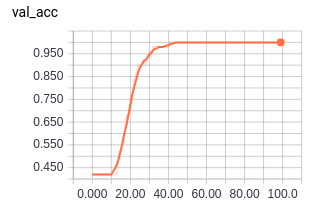
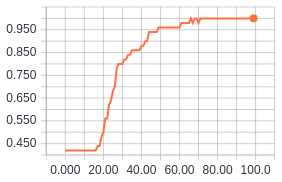
moar text

Changed region(s): [[0.0, 0.0275, 0.9929, 0.8791], [0.1702, 0.9066, 0.8227, 0.9615], [0.8511, 0.9066, 0.9645, 0.9615]]

diff --git a/index.md b/index.md
@@ -45,7 +45,7 @@ Deep learning has been used extensively to automatically process and classify me
 
 # Data
 
-As data we use the open [Montgomery County chest x-ray database](http://archive.nlm.nih.gov/repos/chestImages.php). Since this data doesn't have patient orientation information we manually labeled 173 frontal and 123 lateral images. To allow for a smaller neural network we rescaled x-rays to 128x128 px. Since we have few training samples we synthesised more the data by randomly rotating images in the range of -30 degrees to +30 degrees and flipping them along their vertical axis.
+As data we use the open [Montgomery County chest x-ray database](http://archive.nlm.nih.gov/repos/chestImages.php). Since this data doesn't have patient orientation information we manually labeled a subset of the data yielding 149 frontal and 101 lateral images. To allow for a neural network with fewer parameters we rescaled x-rays to 128x128 px. Since we have few training samples we synthesised more the data by randomly rotating images in the range of -5 degrees to +5 degrees and flipping them along their vertical axis.
 
 <center>
     <img src="assets/frontandside.jpg" alt="Sample x-rays from the Mongomery dataset" style="width: 400px;"/>
@@ -55,26 +55,27 @@ As data we use the open [Montgomery County chest x-ray database](http://archive.
 
 # How it works
 
-Convolutional neural networks (convnets) are a deep learning technique that use a hierarchy of filter banks to extract visual features as an input for a classifier. Structurally Agni is a convnet with four convolutional layers and two dense affine layers. In particular our architecture is based on the widely used VGG model where pooling (downsampling) occurs after every two convolutional layers.
+Convolutional neural networks (convnets) are a deep learning technique that use a hierarchy of filter banks to extract visual features as an input for a classifier. Structurally Agni is a convnet with four convolutional layers and two dense affine layers. In particular our architecture is based on the widely used VGG model where each model "block" has two convolutional layers with the same number of filters followed a pooling (downsampling) layer. We also use [batch normalization](https://arxiv.org/abs/1502.03167) between layers to allow us to be less careful about initialisation and improve training speed. Agni also includes dropout in the last affine layer to regularise parameters to reduce over-fitting.
 
-To find filter bank weights that extract good features, weights are iteratively adjusted such that Agni best predicts the orientation of a given x-ray and orientation label pair. The extent to which a prediction is correct is measured using a loss function. Since our problem has two classes (frontal and lateral), we use binary cross-entropy loss. To adjust weights such that loss is minimised we use [Adam](https://arxiv.org/abs/1412.6980), a modern gradient descent optimiser.
+To find weights that extract good features, weights are iteratively adjusted such that Agni best predicts the orientation of a given x-ray and orientation label pair. The extent to which a prediction is correct is measured using a loss function. Since our problem has two classes (frontal and lateral), we use binary cross-entropy loss. To adjust weights such that loss is minimised we use [Adam](https://arxiv.org/abs/1412.6980), a modern gradient descent optimiser.
 
-A 100 iterations/epochs of training were sufficient for our model to converge to a near zero valuation loss:
+We visualise the training process using [tensorboard](https://www.tensorflow.org/get_started/summaries_and_tensorboard). 100 iterations/epochs of training were sufficient for our model to converge to a near zero valuation loss:
 
 <p style="float: left; font-size: 9pt; text-align: center; width: 48%; margin-right: 1%; margin-bottom: 0.5em;">
   <img src="assets/acc.png" style="width: 100%"/>
-  Valuation accuracy during training (smoothed curve in bold).
+  Valuation accuracy over 100 iterations.
 </p>
 
 <p style="float: right; font-size: 9pt; text-align: center; width: 48%; margin-right: 1%; margin-bottom: 0.5em;">
   <img src="assets/loss.png" style="width: 100%"/>
-  Valuation loss over 100 iterations (smoothed curve in bold)</p>
+  Valuation loss over 100 iterations</p>
 <p style="clear: both;"/>
 
+Note that Agni has a nice steadily decreasing validation loss curve without any upward jumps.
 
 # Performance
 
-Our model achieves a false positive rate of 1% and true positive rate of 99%. We also achieved a log-loss of 0.1 compared to previous work which achieves a false positive rate of and a true positive rate of . Our work is therefore comparable to previous work but is much simpler. Our model uses 2 convolutional layers instead of Googlenet which uses 22 convolutional layers and is therefore both more memory and computationally efficient.
+Our model achieves a 0% false positive rate and 100% true positive rate in the test set of 50 images. We also achieved a log-loss of 0.019. Our work is therefore comparable to previous work but is much simpler. Our model uses a total of 6 layers and a total of around 650 k parameters compared to previous work using Googlenet which uses 22 layers and a total of 6.7 M parameters. Agni is therefore both more memory and computationally efficient previous approaches.
 
 Here is a confusion matrix of front vs side classifications:
 
@@ -99,6 +100,10 @@ Here is a confusion matrix of front vs side classifications:
 
 
 Since we're dealing with data that has binary classes there is a trade-off between false positive rate and false negative rate depending on our threshold. To quantify the continuum of these values we plot a ROC curve:
+
+# Code
+
+Our repo is arranged into source (`src`) and data (`data`) folders. The `src` folder has two files, one for training and another for testing. Please refer to the `README.md` file in the repo for further details.
 
 # Future extensions
 
